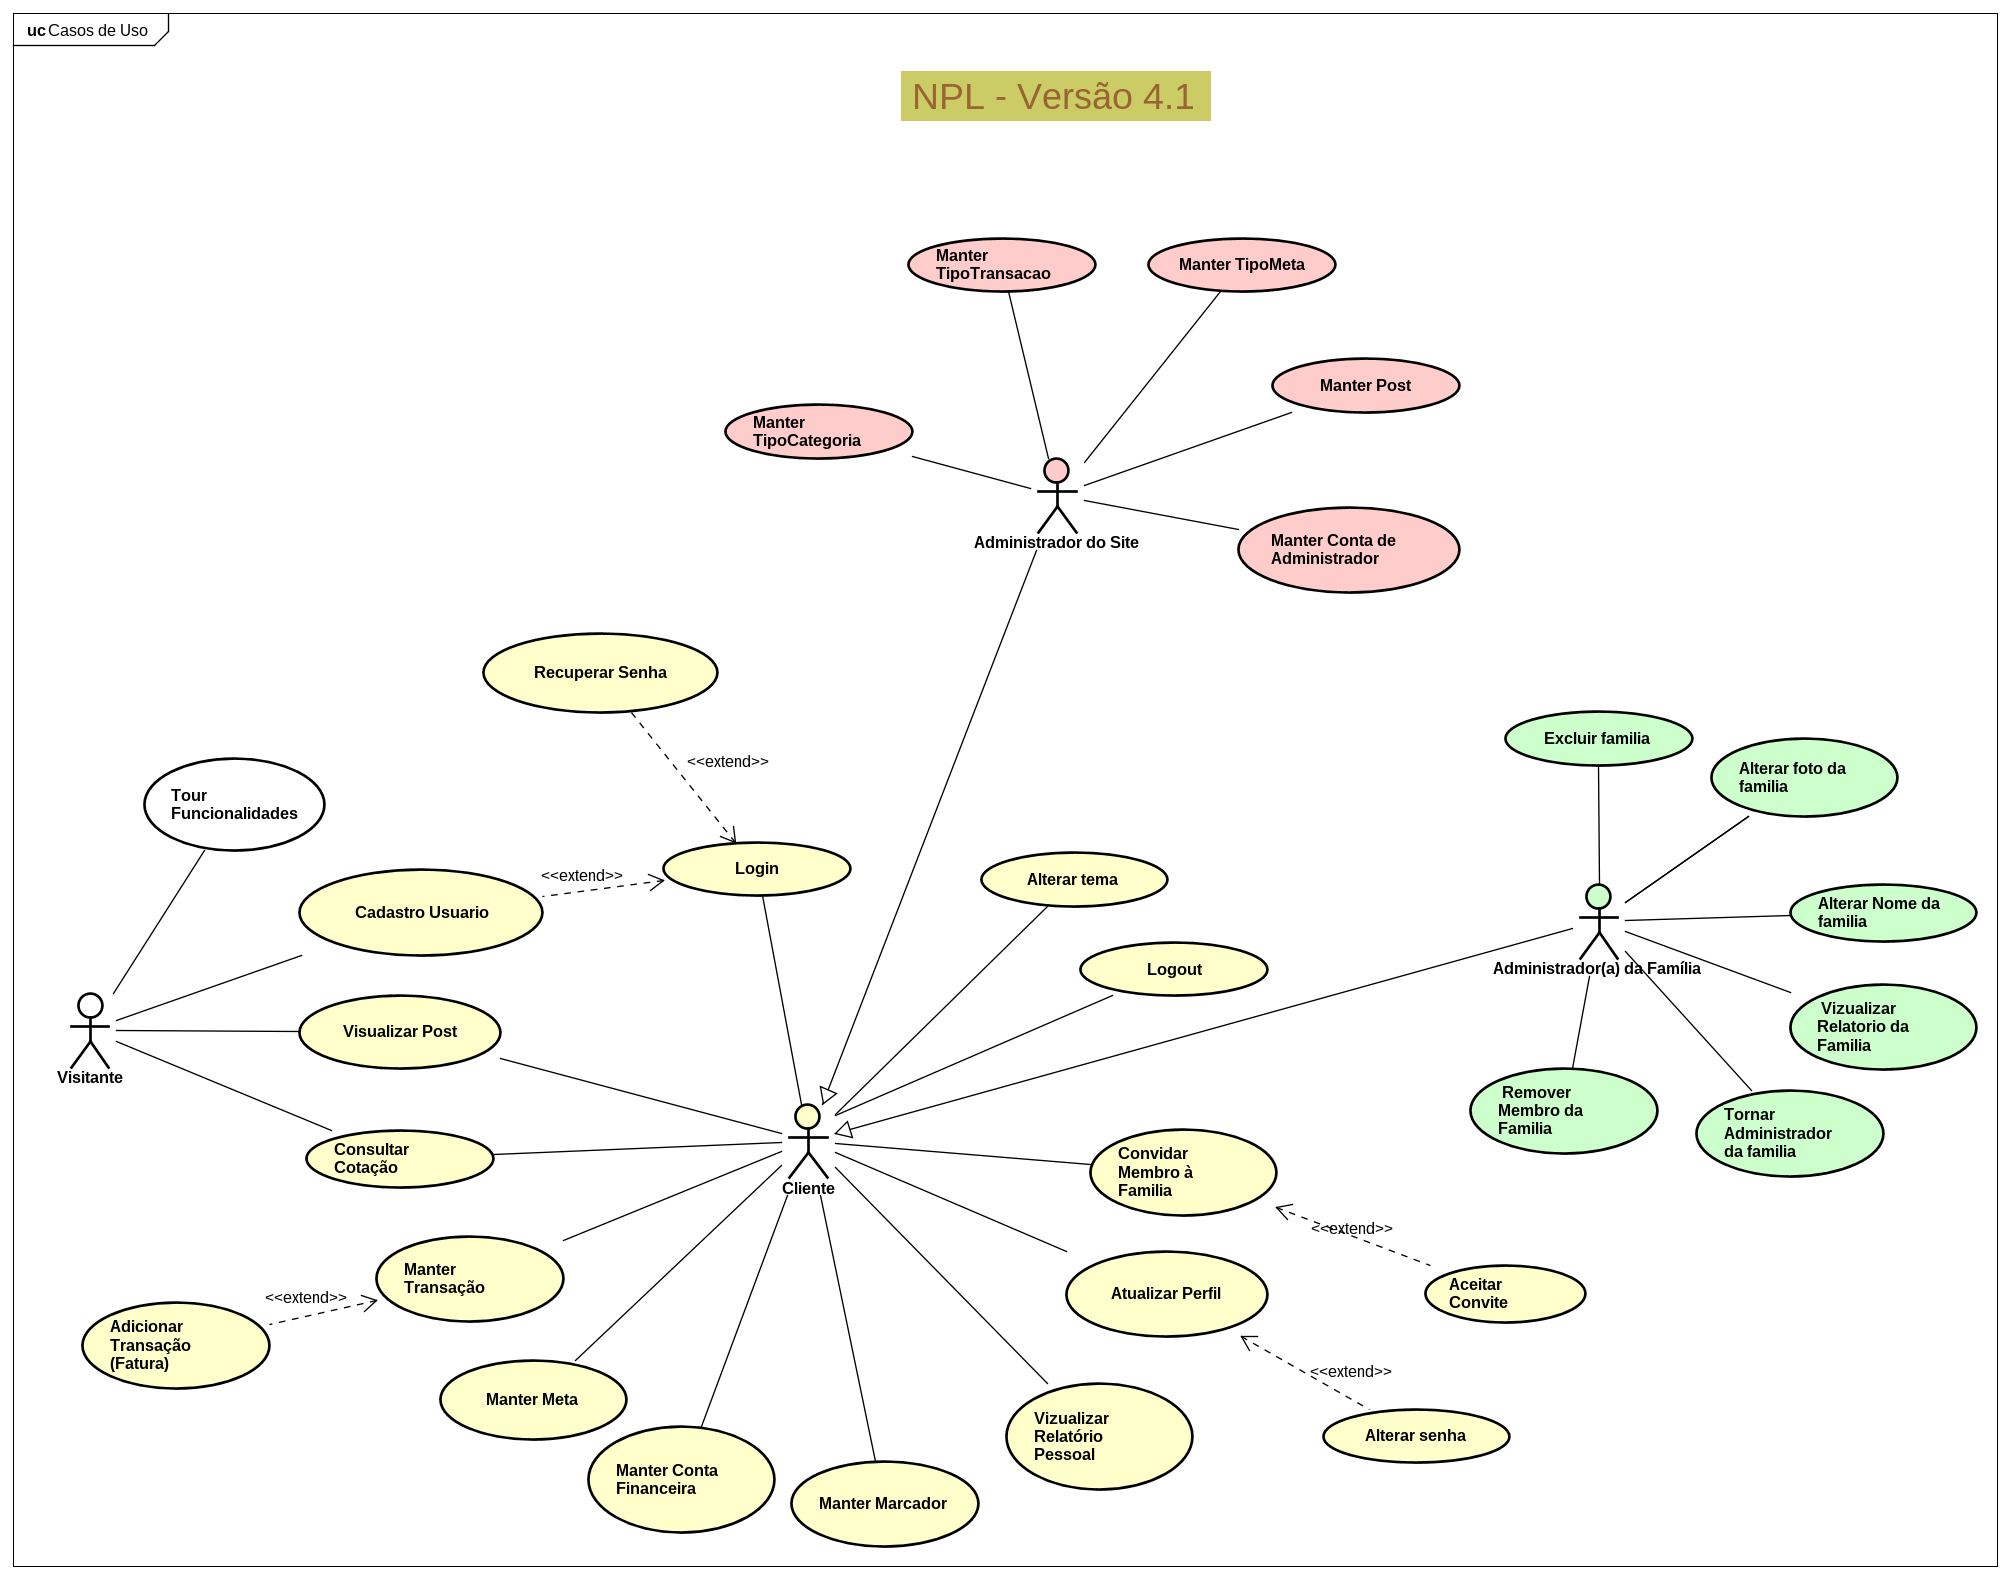
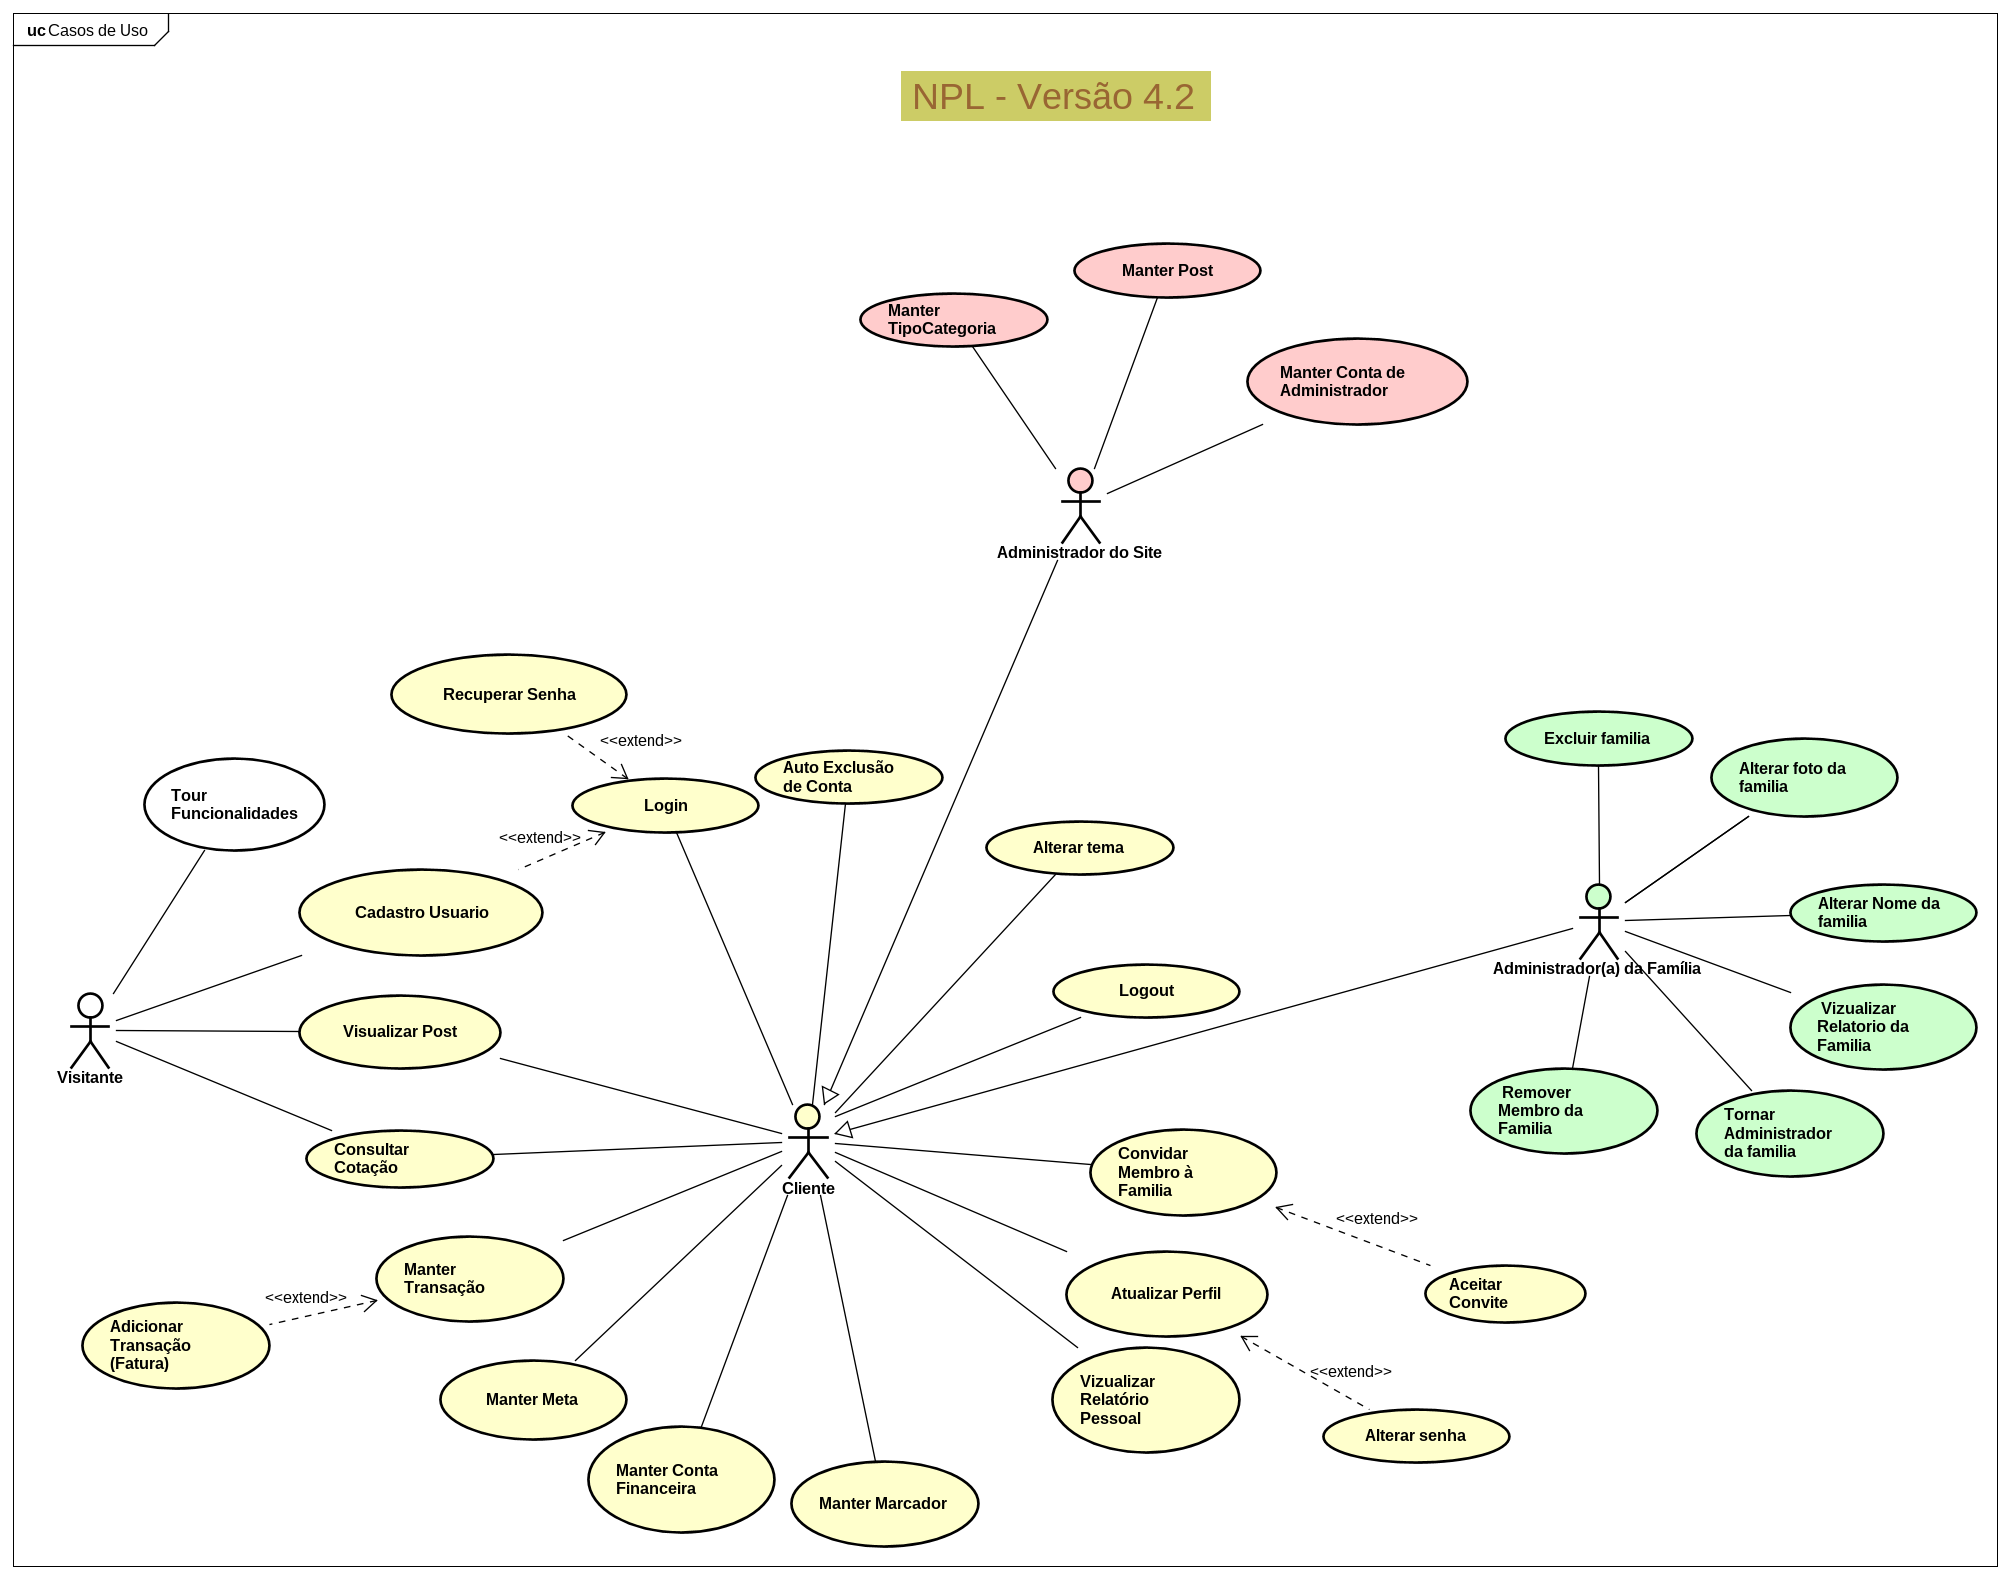
doc: atualiza cdus do projeto

diff --git a/doc/cdu/cdu.md b/doc/cdu/cdu.md
@@ -7,6 +7,7 @@
 | 22/10/2025 | 1.0 | Versão inicial | Bruno Dias, Eduardo Medeiros, Lucas Henrique, Pedro Ricardo, Wagner Souza |
 | 21/11/2025 | 2.0 | Versão atualizada | Bruno Dias, Eduardo Medeiros, Lucas Henrique, Pedro Ricardo, Wagner Souza |
 | 25/01/2025 | 2.1 | Versão atualizada | Bruno Dias, Eduardo Medeiros, Lucas Henrique, Pedro Ricardo, Wagner Souza |
+| 10/05/2026 | 3.0 | Versão atualizada | Bruno Dias, Eduardo Medeiros, Erick Carlos, Lucas Henrique, Pedro Ricardo, Vinicius Soares, Wagner Souza |
 
 ## 1. Diagrama de Casos de Uso
 
@@ -14,27 +15,36 @@
 
 ## 2. Listagem dos Detalhamentos dos Casos de Uso
 
-1. [CDU-01 - Login](./cdu-01/detalhamento-01.md) :white_check_mark:
-1. [CDU-02 - Logout](./cdu-02/detalhamento-02.md) :white_check_mark:
-1. [CDU-03 - Cadastro](./cdu-03/detalhamento-03.md) :white_check_mark:
-1. [CDU-04 - Recuperar Senha](./cdu-04/detalhamento-04.md) :white_check_mark:
-1. [CDU-05 - Visualizar Cotação](./cdu-05/detalhamento-05.md)
-1. [CDU-06 - Visualizar Relatório Pessoal](./cdu-06/detalhamento-06.md) :white_check_mark:
-1. [CDU-07 - Visualizar Post](./cdu-07/detalhamento-07.md) :white_check_mark:
-1. [CDU-08 - Manter Meta (Temporária)](./cdu-08/detalhamento-08.md)
-1. [CDU-09 - Manter Conta Financeira (Temporária)](./cdu-09/detalhamento-09.md)
-1. [CDU-10 - Manter Transação (Temporária)](./cdu-10/detalhamento-10.md)
-1. [CDU-11 - Manter Marcador (Temporária)](./cdu-11/detalhamento-11.md) :white_check_mark:
-1. [CDU-12 - Alterar Tema](./cdu-12/detalhamento-12.md) :white_check_mark:
-1. [CDU-13 - Manter Post](./cdu-13/detalhamento-13.md) :white_check_mark:
-1. [CDU-14 - Manter Cotação](./cdu-14/detalhamento-14.md) :white_check_mark:
-1. [CDU-15 - Manter Conta de Administrador](./cdu-15/detalhamento-15.md) :white_check_mark:
-1. [CDU-16 - Manter Marcador (Persistente)](./cdu-16/detalhamento-16.md):white_check_mark:
-1. [CDU-17 - Manter Meta (Persistente)](./cdu-17/detalhamento-17.md) :white_check_mark:
-1. [CDU-18 - Manter Transação (Persistente)](./cdu-18/detalhamento-18.md) :white_check_mark:
-1. [CDU-19 - Manter Conta Financeira (Persistente)](./cdu-19/detalhamento-19.md) :white_check_mark:
-1. [CDU-20 - Atualizar Perfil](./cdu-20/detalhamento-20.md)
-1. [CDU-21 - Remover Membro da Família](./cdu-21/detalhamento-21.md) :white_check_mark:
-1. [CDU-22 - Adicionar Membro à Família](./cdu-22/detalhamento-22.md) :white_check_mark:
-1. [CDU-23 - Tornar Administrador da Fámilia](./cdu-23/detalhamento-23.md) :white_check_mark:
-1. [CDU-24 - Visualizar Relatório da Família](./cdu-24/detalhamento-24.md)
+1. [CDU-01 - Login](./cdu-01/detalhamento-01.md) ✅
+1. [CDU-02 - Logout](./cdu-02/detalhamento-02.md) ✅
+1. [CDU-03 - Cadastro Usuario](./cdu-03/detalhamento-03.md) ✅
+1. [CDU-04 - Recuperar Senha](./cdu-04/detalhamento-04.md) 
+1. [CDU-05 - Consultar Cotação](./cdu-05/detalhamento-05.md)
+1. [CDU-06 - Visualizar Relatório Pessoal](./cdu-06/detalhamento-06.md) 🚧👷
+1. [CDU-07 - Visualizar Post](./cdu-07/detalhamento-07.md) 
+1. [CDU-08 - ~~Manter Meta (Temporária~~)](./cdu-08/detalhamento-08.md) [OBSOLETO]
+1. [CDU-09 - ~~Manter Conta Financeira (Temporária)~~](./cdu-09/detalhamento-09.md) [OBSOLETO]
+1. [CDU-10 - ~~Manter Transação (Temporária)~~](./cdu-10/detalhamento-10.md) [OBSOLETO]
+1. [CDU-11 - ~~Manter Marcador (Temporária)~~](./cdu-11/detalhamento-11.md) [OBSOLETO]
+1. [CDU-12 - Alterar Tema](./cdu-12/detalhamento-12.md) 
+1. [CDU-13 - Manter Post](./cdu-13/detalhamento-13.md) 
+1. [CDU-14 - ~~Manter Cotação~~](./cdu-14/detalhamento-14.md) [OBSOLETO]
+1. [CDU-15 - Manter Conta de Administrador](./cdu-15/detalhamento-15.md) 
+1. [CDU-16 - Manter Marcador ](./cdu-16/detalhamento-16.md) 🚧👷
+1. [CDU-17 - Manter Meta ](./cdu-17/detalhamento-17.md) 🚧👷
+1. [CDU-18 - Manter Transação ](./cdu-18/detalhamento-18.md) ✅
+1. [CDU-19 - Manter Conta Financeira ](./cdu-19/detalhamento-19.md) 🚧👷
+1. [CDU-20 - Atualizar Perfil](./cdu-20/detalhamento-20.md) 🚧👷
+1. [CDU-21 - Remover Membro da Família](./cdu-21/detalhamento-21.md) 
+1. [CDU-22 - Convidar Membro à Família](./cdu-22/detalhamento-22.md) 🚧👷
+1. [CDU-23 - Tornar Administrador da Fámilia](./cdu-23/detalhamento-23.md) 
+1. [CDU-24 - Visualizar Relatório da Família](./cdu-24/detalhamento-24.md) 
+1. [CDU-25 - Tour Funcionalidades](./cdu-25/detalhamento-25.md)
+1. [CDU-26 - Adicionar Transação (Fatura)](./cdu-26/detalhamento-26.md)
+1. [CDU-27 - Aceitar Convite](./cdu-27/detalhamento-27.md)
+1. [CDU-28 - Alterar Senha](./cdu-28/detalhamento-28.md)
+1. [CDU-29 - Manter TipoCategoria](./cdu-29/detalhamento-29.md)
+1. [CDU-30 - Excluir Família](./cdu-30/detalhamento-30.md)
+1. [CDU-31 - Alterar Foto da Família](./cdu-31/detalhamento-31.md)
+1. [CDU-32 - Alterar Nome da Família](./cdu-32/detalhamento-32.md)
+1. [CDU-33 - Auto Exclusão de Conta](./cdu-33/detalhamento-33.md)

diff --git a/doc/cdu/Listagem Casos de Uso.md b/doc/cdu/Listagem Casos de Uso.md
@@ -3,29 +3,36 @@
 ## Alta
 
 1. [Manter transação - CDU 18](./cdu-18/detalhamento-18.md)
-
+1. [Adicionar Transação (Fatura) - CDU 26](./cdu-26/detalhamento-26.md)
 1. [Manter conta - CDU 19](./cdu-19/detalhamento-19.md)
-1. [Visualizar relatório pessoal - CDU 6](./cdu-06/detalhamento-06.md)
-1. [Manter família - CDU 22](./cdu-22/detalhamento-22.md)
+1. [Visualizar relatório pessoal - CDU 06](./cdu-06/detalhamento-06.md)
+1. [Convidar Membro à Família - CDU 22](./cdu-22/detalhamento-22.md)
+1. [Aceitar Convite - CDU 27](./cdu-27/detalhamento-27.md)
 1. [Visualizar relatório da família - CDU 24](./cdu-24/detalhamento-24.md)
 
 ## Média
 
 1. [Manter meta - CDU 17](./cdu-17/detalhamento-17.md)
-
 1. [Manter marcador - CDU 16](./cdu-16/detalhamento-16.md)
-1. [Login - CDU 1](./cdu-01/detalhamento-01.md)
-1. [Logout - CDU 2](./cdu-02/detalhamento-02.md)
-1. [Cadastro - CDU 3](./cdu-03/detalhamento-3.md)
+1. [Remover Membro da Família - CDU 21](./cdu-21/detalhamento-21.md)
+1. [Login - CDU 01](./cdu-01/detalhamento-01.md)
+1. [Logout - CDU 02](./cdu-02/detalhamento-02.md)
+1. [Cadastro Usuario - CDU 03](./cdu-03/detalhamento-03.md)
 
 ## Baixa
 
 1. [Manter post - CDU 13](./cdu-13/detalhamento-13.md)
-
-1. [Visualizar post - CDU 7](./cdu-07/detalhamento-07.md)
+1. [Visualizar post - CDU 07](./cdu-07/detalhamento-07.md)
 1. [Manter admin do site - CDU 15](./cdu-15/detalhamento-15.md)
+1. [Manter TipoCategoria - CDU 29](./cdu-29/detalhamento-29.md)
 1. [Tornar admin da família - CDU 23](./cdu-23/detalhamento-23.md)
-1. [Recuperar senha - CDU 4](./cdu-04/detalhamento-04.md)
+1. [Excluir Família - CDU 30](./cdu-30/detalhamento-30.md)
+1. [Alterar Nome da Família - CDU 32](./cdu-32/detalhamento-32.md)
+1. [Alterar Foto da Família - CDU 31](./cdu-31/detalhamento-31.md)
 1. [Atualizar Perfil - CDU 20](./cdu-20/detalhamento-20.md)
+1. [Alterar Senha - CDU 28](./cdu-28/detalhamento-28.md)
+1. [Recuperar senha - CDU 04](./cdu-04/detalhamento-04.md)
+1. [Auto Exclusão de Conta - CDU 33](./cdu-33/detalhamento-33.md)
 1. [Alterar Tema - CDU 12](./cdu-12/detalhamento-12.md)
-1. [Visualizar cotação - CDU 05](./cdu-05/detalhamento-05.md)
+1. [Consultar Cotação - CDU 05](./cdu-05/detalhamento-05.md)
+1. [Tour Funcionalidades - CDU 25](./cdu-25/detalhamento-25.md)

diff --git a/doc/cdu/cdu-18/detalhamento-18.md b/doc/cdu/cdu-18/detalhamento-18.md
@@ -1,8 +1,8 @@
-# CDU 18. Manter Transação (Persistente)
+# CDU 18. Manter Transação 
 
 - **Ator principal**: Cliente
 - **Atores secundários**: Sistema de Banco de Dados
-- **Resumo**: O sistema exibe um formulário com os campos necessários (descrição, valor, categoria, tipo, status de pagamento/recebimento, data, marcador, conta) para criar, editar ou excluir uma transação. O Cliente preenche todos os campos obrigatórios e confirma a operação.
+- **Resumo**: O sistema exibe um formulário com os campos necessários (*descrição, *valor, categoria, *status de pagamento/recebimento, *data, marcador, *conta) para criar, editar ou excluir uma transação. O Cliente preenche todos os campos obrigatórios e confirma a operação.
 - **Pré-condição**: O Cliente deve estar autenticado no sistema para registrar uma transação.
 - **Pós-condição**: O sistema persiste os dados da transação no banco de dados e exibe uma mensagem de confirmação.
 
@@ -11,19 +11,13 @@
 | Ações do ator | Ações do sistema |
 | :-: | :-: |
 | 1 - Cliente clica no botão "Transações" ou no botão de acesso rápido | |  
-| | 2 - Sistema exibe um formulário com os campos (descrição, valor, categoria, tipo, status de pagamento/recebimento, data, marcador, conta) necessários para completar o cadastro de transação |
+| | 2 - Sistema exibe um formulário com os campos (*descrição, *valor, *categoria, *status de pagamento/recebimento, *data, marcador, *conta) necessários para completar o cadastro de transação |
 | 3 - Cliente preenche os campos obrigatórios e clica em "Salvar" | |
 | | 4 - Sistema valida os dados informados |
 | | 5 - Sistema persiste a transação no banco de dados e exibe mensagem de confirmação: "Transação salva com sucesso" |
 
-## Fluxo Alternativo I - Validação de Dados com Erro
 
-| Ações do ator | Ações do sistema |
-| :-: | :-: |
-| | 4.1 - Sistema identifica que um ou mais campos foram preenchidos de forma incorreta e exibe mensagem de erro (ex: "Campo obrigatório", "Valor deve ser positivo") |
-| | 4.2 - Sistema retorna ao passo 3 do fluxo principal para corrigir os dados |
-
-## Fluxo Alternativo II - Editar Transação
+## Fluxo Alternativo I - Editar Transação
 
 | Ações do ator | Ações do sistema |
 | :-: | :-: |
@@ -33,7 +27,7 @@
 | | 4.2 - Sistema valida os dados e persiste as alterações |
 | | 5.2 - Sistema exibe mensagem de confirmação: "Transação atualizada com sucesso" |
 
-## Fluxo Alternativo III - Excluir Transação
+## Fluxo Alternativo II - Excluir Transação
 
 | Ações do ator | Ações do sistema |
 | :-: | :-: |
@@ -44,18 +38,12 @@
 | | 5.3 - Sistema atualiza automaticamente o gráfico e a tabela de transações, refletindo a exclusão |
 | | 6.3 - Sistema exibe mensagem de confirmação: "Transação excluída com sucesso" |
 
-## Fluxo Alternativo IV - Importar Transação via PDF
+## Fluxo Exceção - Validação de Dados com Erro
 
 | Ações do ator | Ações do sistema |
 | :-: | :-: |
-| 1.4 - Cliente clica no botão "Importar PDF" no formulário de transações | |
-| | 2.4 - Sistema exibe um diálogo para seleção de arquivo |
-| 3.4 - Cliente seleciona um arquivo PDF e clica em "Abrir" | |
-| | 4.4 - Sistema lê e processa o arquivo PDF extraindo os dados da transação |
-| | 5.4 - Sistema pré-preenche o formulário com os dados extraídos |
-| 6.4 - Cliente revisa os dados e clica em "Salvar" | |
-| | 7.4 - Sistema valida e persiste a transação (segue para passo 5 do fluxo principal) |
-
+| | 4.1 - Sistema identifica que um ou mais campos foram preenchidos de forma incorreta e exibe mensagem de erro (ex: "Campo obrigatório", "Valor deve ser positivo") |
+| | 4.2 - Sistema retorna ao passo 3 do fluxo principal para corrigir os dados |
 
 ## Diagrama de Interação (Sequência ou Comunicação)
 

diff --git a/README.md b/README.md
@@ -16,14 +16,11 @@ Nosso sistema web cria um ambiente digital acolhedor e interativo voltado para j
 
 # Horário de Reuniões
 
-- Quarta-Feira: 20:30 às 21:30. (Discord)
-- Quinta-Feira: 16:30 às 18:00. (Presencial com o Orientador) 
-- Sexta-Feira:  20:30 às 21:30. (Discord)
+- Terça-Feira: 14:30 às 16:00. (Presencial com o Orientador)
+- Quarta-Feira: 20:30 às 21:30. (Discord) 
+- Sábado: 19:30 às 20:00. (Discord)
 
 # Documentação
 
 [Link para os documentos do projeto](doc/documentacao.md)
 
-# Manual do Desenvolvedor
-
-[Orientações para os desenvolvedores do projeto](doc/guia-ds/guia.md)

diff --git a/backend/README.MD b/backend/README.MD
@@ -9,10 +9,10 @@ cd backend/na-ponta-do-lapis
 2. Limpar e compilar o projeto
 
 ```bash
-./mvnw clean install
+mvn clean install
 ```
 3. Rodar a aplicação
 
 ```bash
-./mvnw spring-boot:run
+mvn spring-boot:run
 ```

diff --git a/doc/documentacao.md b/doc/documentacao.md
@@ -9,4 +9,6 @@ Clique em cada um dos links abaixo para acessar o artefato específico.
 1. [Modelo de casos de uso](cdu/cdu.md)
 1. [Modelo de dados](bd/bd.md)
 1. [Glossario de termos](glossario/doc-glossario.md)
+1. [Documento de risco](risco/risco.md)
+1. [Termos de Privacidade](termos/termos_privacidade.md)
 

diff --git a/doc/prototipos/prototipos.md b/doc/prototipos/prototipos.md
@@ -49,7 +49,7 @@ flowchart TD
 ```
 
 ### Protótipo de baixa fidelidade
-[Link para vizualização no Figma](https://www.figma.com/design/hbbNIiCbHjSmDtWXFRDvgs/Na-Ponta-do-Lapis?node-id=87-4&t=MZDT6lo0g5vAUEoe-1)
+[Link para vizualização no Figma](https://www.figma.com/design/hbbNIiCbHjSmDtWXFRDvgs/Na-Ponta-do-Lapis?node-id=625-100&m=dev)
 ### A. Tela 1: Index
 > Obs. Substituir pela captura das imagens, sejam elas provenientes do Figma (anexar também o link para o Figma) ou já em HTML e CSS...
 